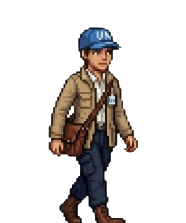
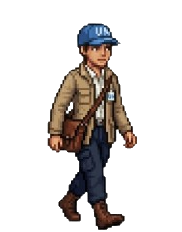
주인공 시트 정밀 재분할 — 셀 경계 잡티 제거
이전 분할은 고정 1/2, 1/3 좌표라 캐릭터가 셀 끝에 닿는 행의 경우
인접 셀(아래 행의 신발 등) 잔재가 위/아래로 묻어 들어왔음.

수정: 시트 전체 알파 합으로 transparent gap(빈 줄·빈 열) 자동 검출
- 행 경계 y = [0, 240, 452, 669] (mid gap 가운데)
- 열 경계 x = [0, 183, 373]
- 각 셀 crop 시 4px inset 적용해 잔여 알파 한 번 더 차단
- 분할 후 모서리 8지점 floodfill + alpha<80 cleanup

결과: hero_up_0/1 머리 위 신발 잔재 사라짐. 6장 모두 깔끔.

SW 캐시 v39 → v40

Changed region(s): [[0.2473, 0.0807, 0.7692, 1.0]]

diff --git a/sw.js b/sw.js
@@ -1,4 +1,4 @@
-const CACHE = 'vanished-sea-v39';
+const CACHE = 'vanished-sea-v40';
 const PRECACHE = [
   './',
   './index.html',
